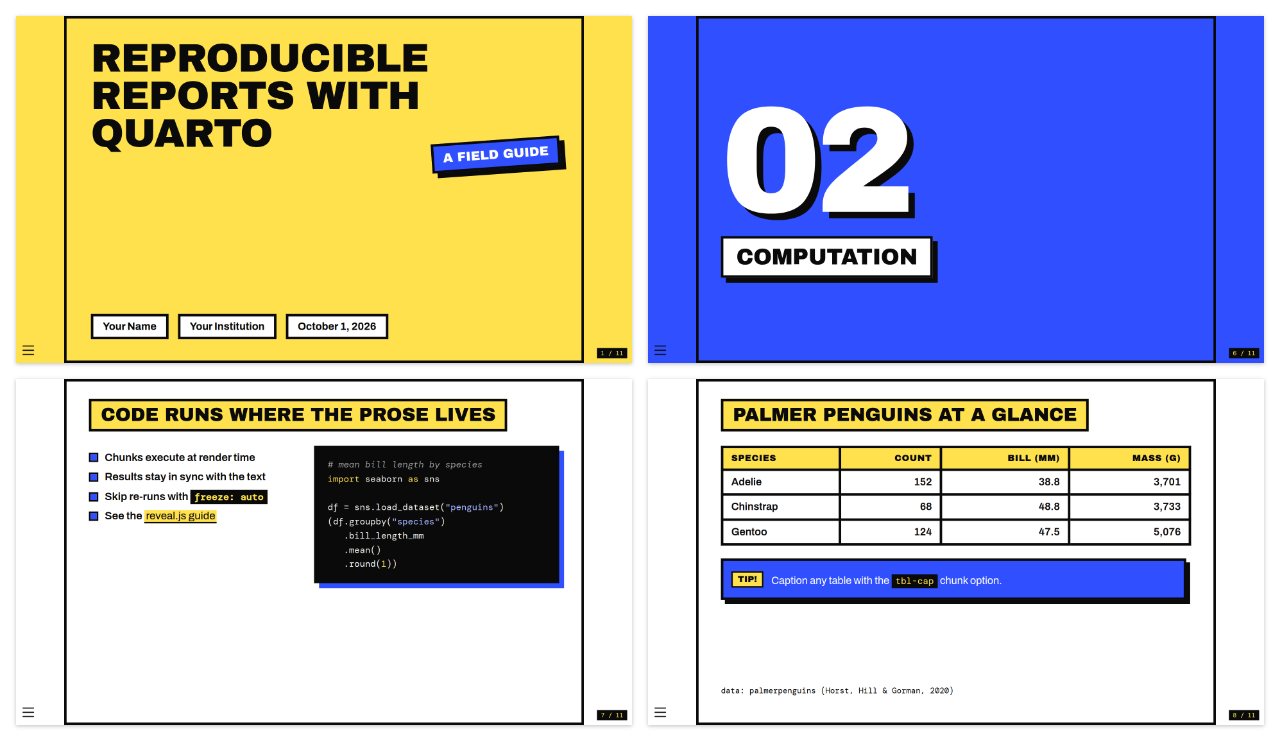
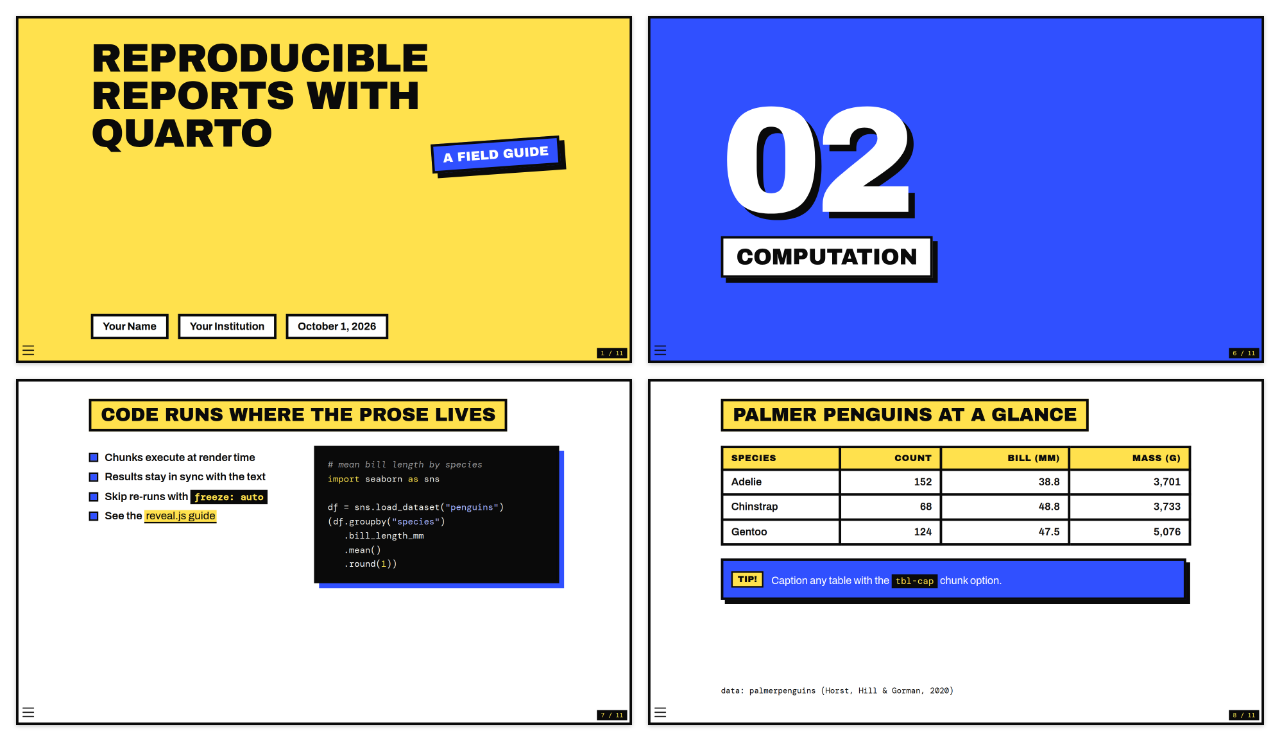
Draw the Brutalist Pop outline around the whole window
The black frame sat on reveal's slide box, so on screens that are not
exactly 3:2 it floated inside the yellow, blue or white background. It
now sits on the slide background, which always fills the window.

Claude-Session: https://claude.ai/code/session_01AYQgjzvYRBcmetYfhGp6ZN

diff --git a/_extensions/pop/pop.scss b/_extensions/pop/pop.scss
@@ -56,14 +56,17 @@ $code-bg: $pop-black !default;
 .reveal .slides {
   counter-reset: pop-section;
 
-  // every slide is an outlined card
   section.slide,
   section#title-slide {
     box-sizing: border-box;
     height: 100%;
     padding: 40px 50px;
-    box-shadow: inset 0 0 0 $pop-line $pop-black;
   }
+}
+
+// every slide is an outlined card, framing the whole window
+.reveal .slide-background-content {
+  box-shadow: inset 0 0 0 $pop-line $pop-black;
 }
 
 // yellow cover, blue section slides
